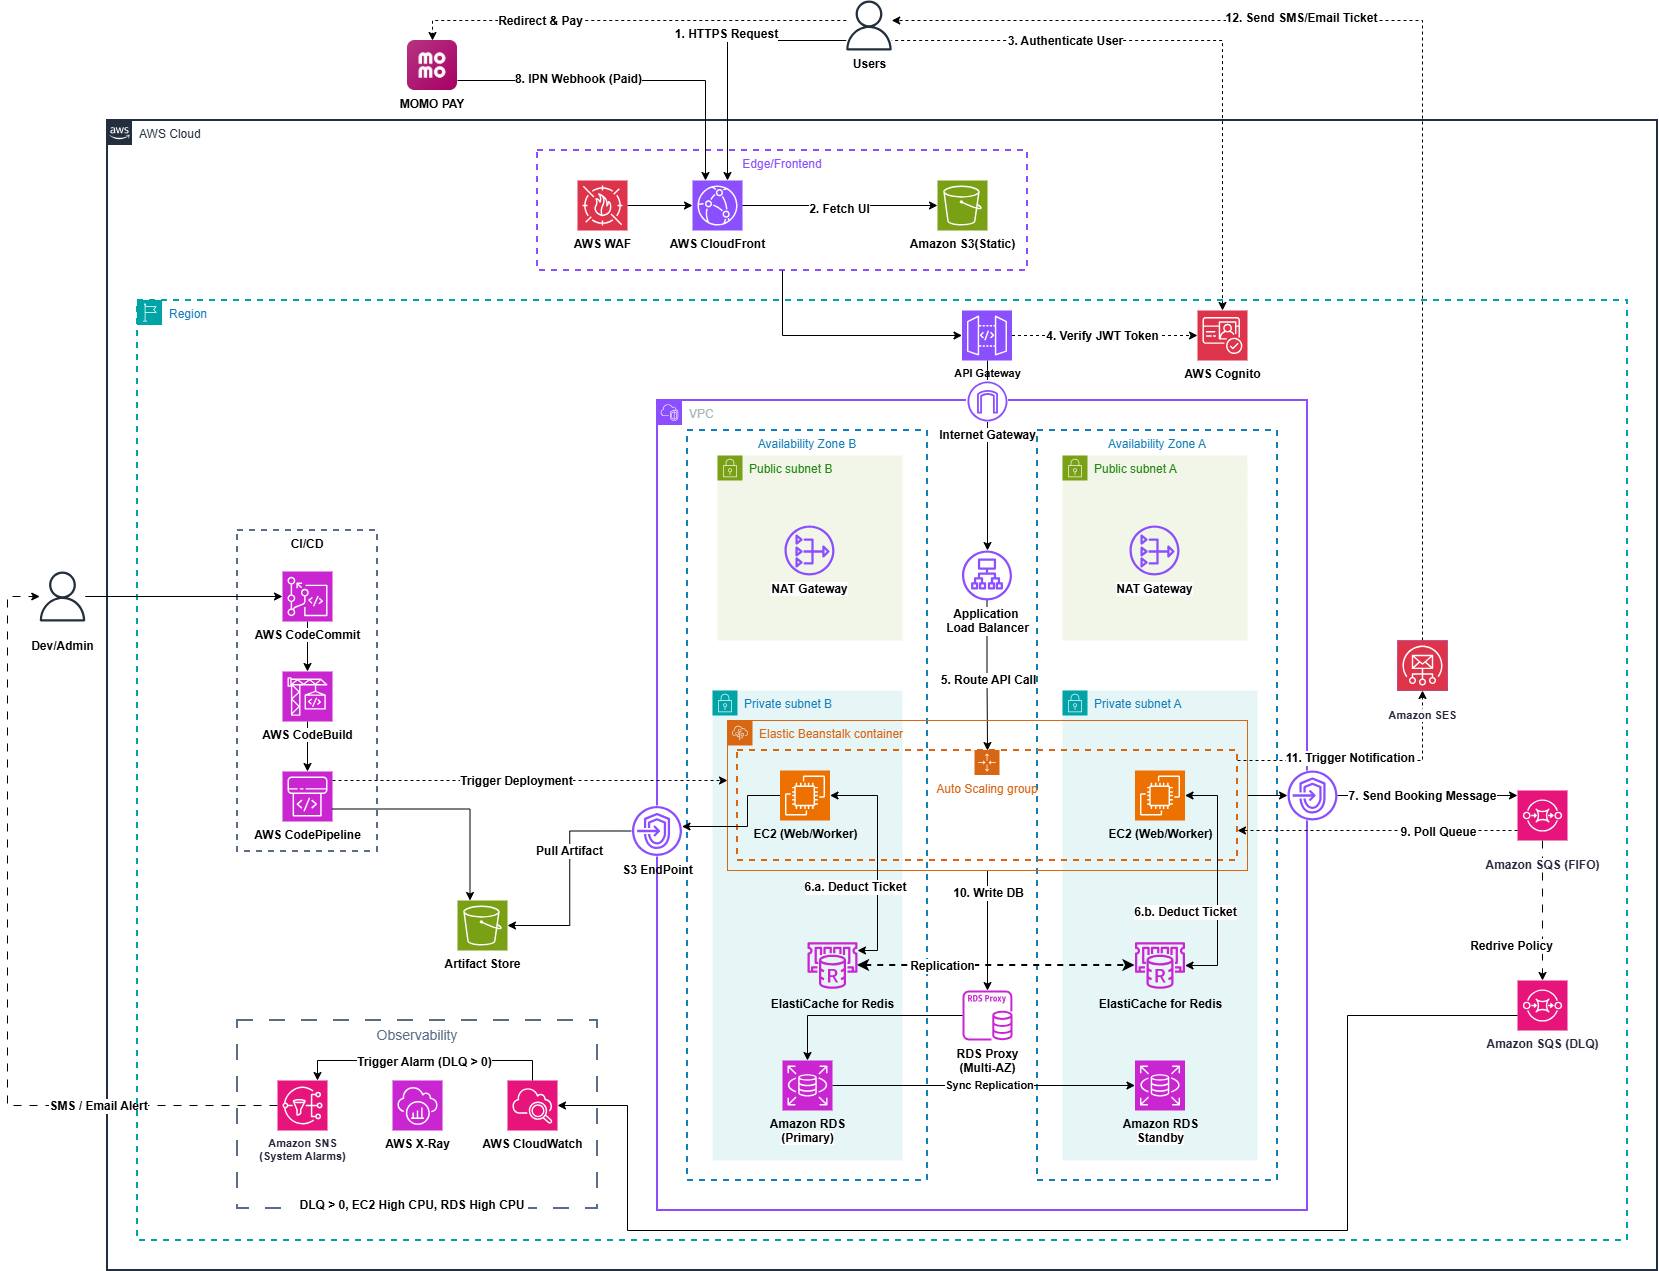
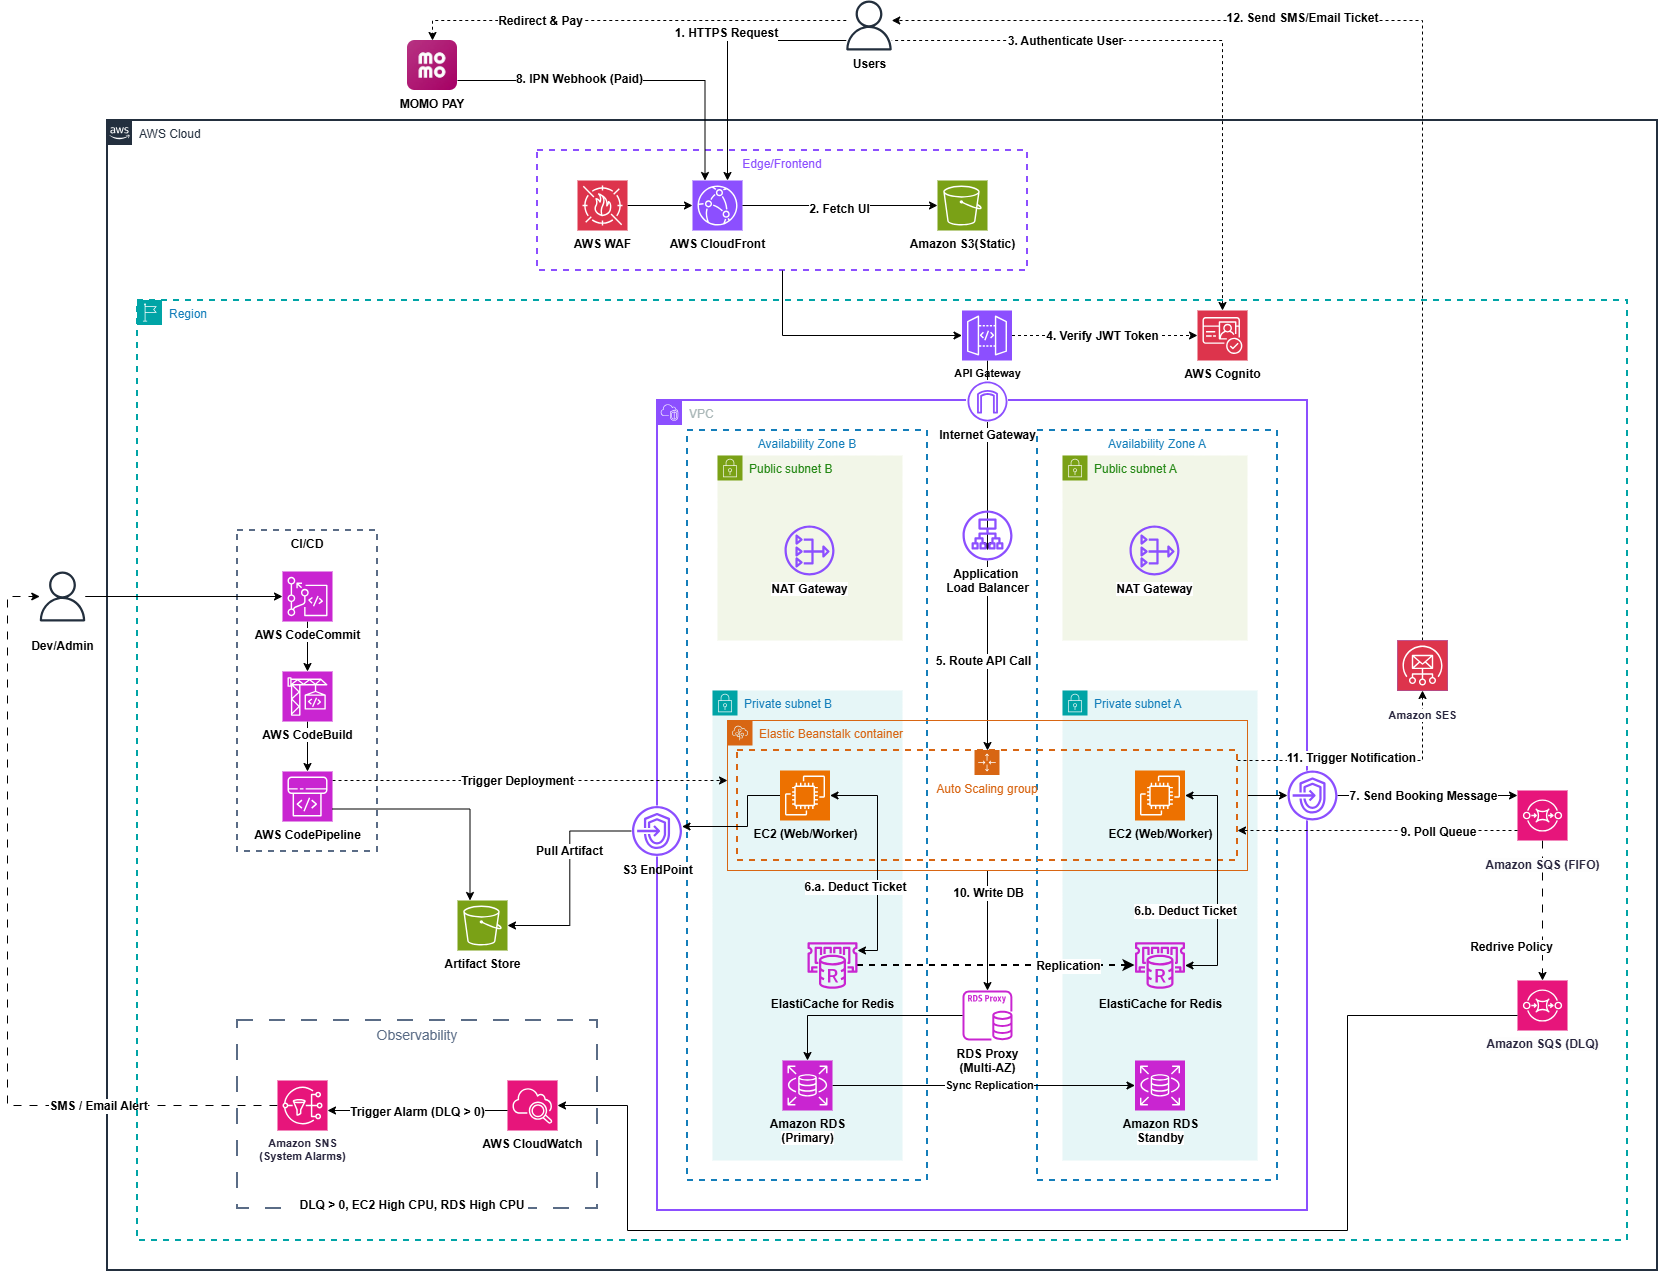
update23

diff --git a/content/2-Proposal/_index.md b/content/2-Proposal/_index.md
@@ -61,8 +61,7 @@ The system is deployed in a custom VPC with isolated Public and Private subnets 
 
 #### 3.1 Architecture Diagram
 
-![System Architecture](images/2-Proposal/ticket_app_architecture.png)
-
+![System Architecture](/images/2-Proposal/ticket_app_architecture.png)
 
 #### 3.2 AWS Services Details
 

diff --git a/content/2-Proposal/_index.vi.md b/content/2-Proposal/_index.vi.md
@@ -61,7 +61,7 @@ Hệ thống được thiết kế theo mô hình VPC chuẩn với các lớp m
 
 #### 3.1 Sơ đồ kiến trúc hệ thống
 
-![Sơ đồ kiến trúc hệ thống](images/2-Proposal/ticket_app_architecture.png)
+![Sơ đồ kiến trúc hệ thống](/images/2-Proposal/ticket_app_architecture.png)
 
 
 #### 3.2 Các dịch vụ AWS sử dụng